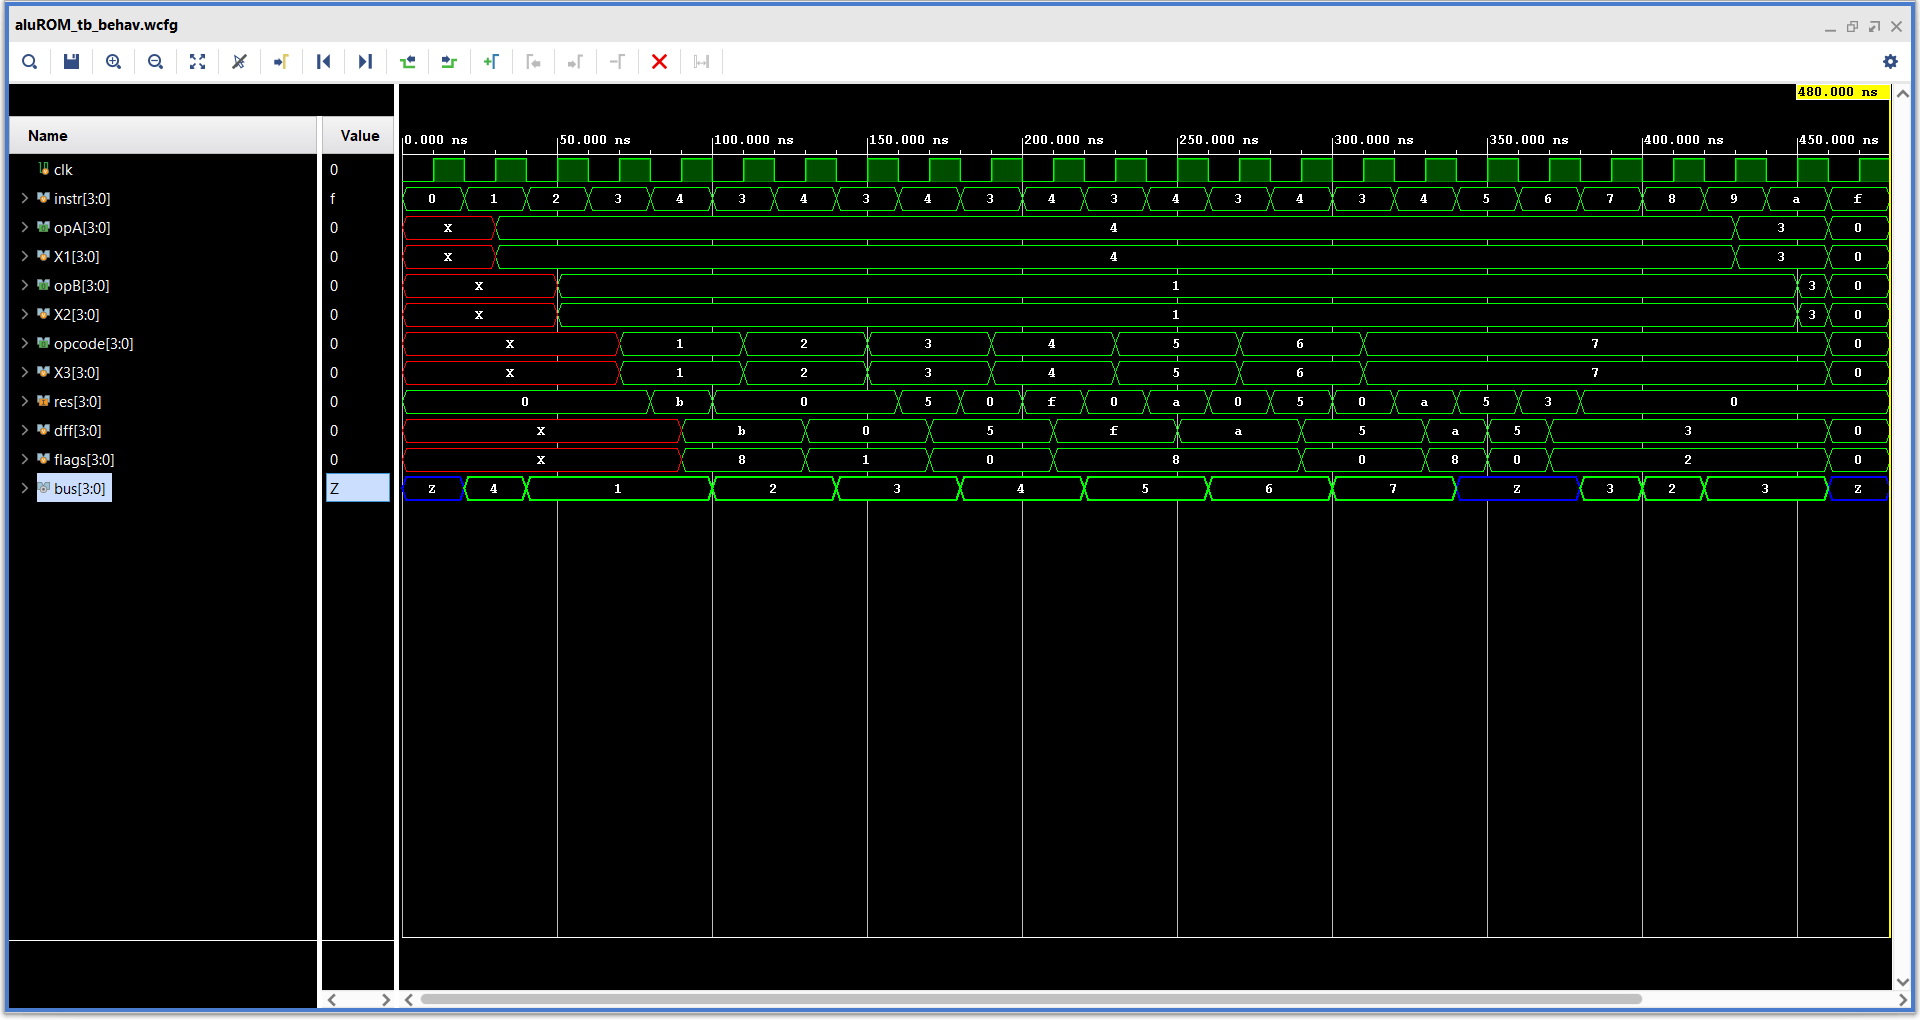
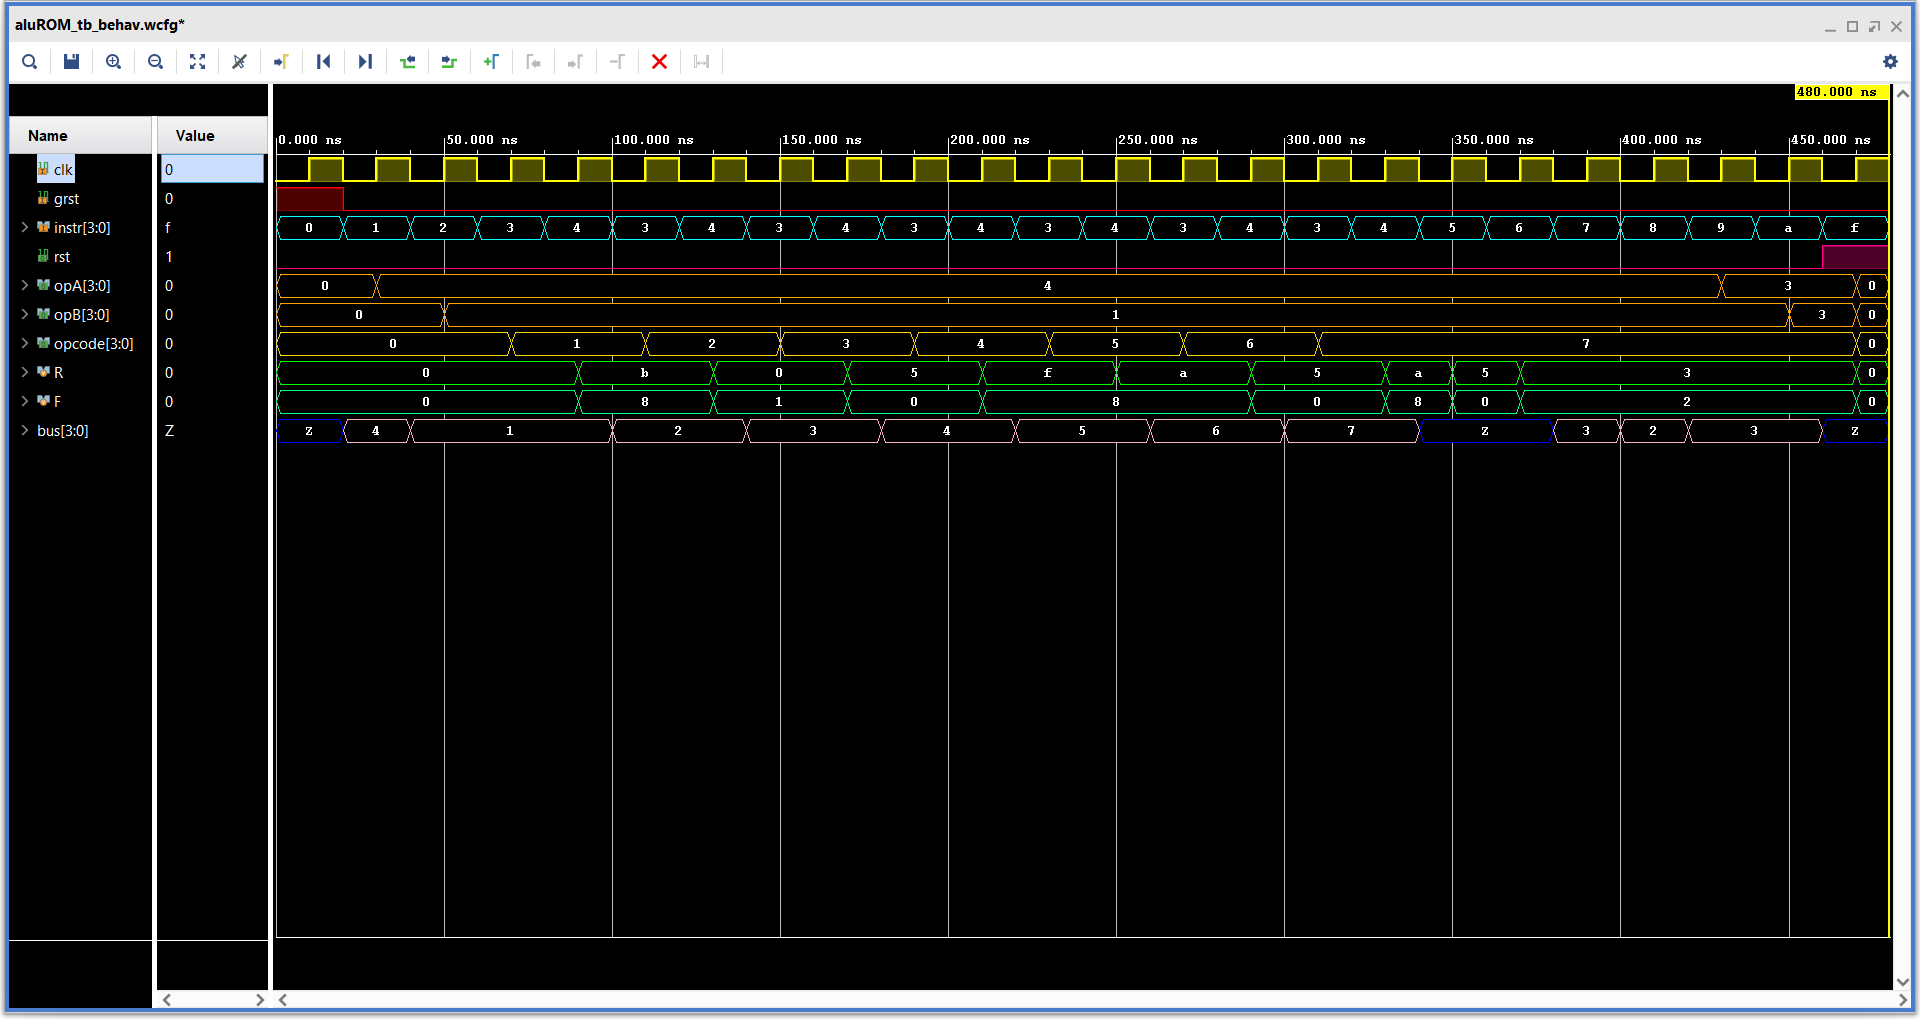
Updated!

diff --git a/ALU unit/README.md b/ALU unit/README.md
@@ -1,1 +1,97 @@
-In progress...
+# **Arithmatic & Logic unit**
+
+The ALU unit in this design can perform all the logic logic operations and two arithmatic operations.
+The operation count is reduced to make the instruction allocation easier!!!
+
+### **Overview :**
+- The ALU with two registers forms the data operation and storage unit,
+    1. Input register - X
+        + Contains three memory elements - A operand, B operand and Operation selector.
+        + The op selector is used to select is used for logic operation selector.
+    2. Output register - Result
+        + Has two memory elements - R and F registers.
+        + R -> ALU result
+        + F -> Flags
+- Contains two resets,
+    1. GRST -> Global reset (Hardware reset)
+    2. LRST -> Local reset (Software reset)
+- Both registers are connected to a single shared 4bit bus.
+- The registers can perform below operations,
+    1. X  -> Read from bus and directly forward the value to ALU
+    2. R -> Read the ALU output and write to bus
+    3. F -> Store flags set by the ALU and write to the bus
+- The logic operations are controlled by the opcode but the arithmatic operations have there own dedicated instructions.
+- The read write operations are controlled by a register control block which enables te required register operations based control signals given by the decoder.
+- The instruction are given to the decoder in hex form where it is decoded to produce the requiered control signals.
+
+---
+
+### **Elaborated design :**
+![Failed to load the image!](./schematic/schematic.png "Loading...")
+
+---
+ 
+### **Instruction set :**
+
+| Hex code | Operation          |
+|:--------:|:------------------:|
+| 0        | NOP                |
+| 1        | MOV BUS, X1        |
+| 2        | MOV BUS, X2        |
+| 3        | MOV BUS, X3        |
+| 4        | LOGIC              |
+| 5        | ADD                |
+| 6        | SUB                |
+| 7        | MOV R -> BUS       |
+| 8        | MOV F -> BUS       |
+| 9        | MOV R -> X1        |
+| A        | MOV R -> X2        |
+| B        | NOP                |
+| C        | NOP                |
+| D        | NOP                |
+| E        | NOP                |
+| F        | CLEAR              |
+
+---
+
+### **Simulation :**
+
+#### **Test sequence :**
+```sv ,
+{
+    reg clk, grst,    // Clock and Global reset
+    reg [3:0] imm,    // Immediate value
+    reg [3:0] instr,  // Instruction
+    wire [3:0] bus // Data bus
+    
+    reg bus_write ;  // Enable bus simulation
+    reg [3:0] bus_temp ;    // Temporary bus value
+}
+
+begin
+
+    clk = 0 ; grst = 1 ; instr = 4'h0 ; bus_write = 0 ; bus_temp = 4'h0 ;  // Initial condition
+
+    @( negedge clk ) ; grst = 0 ; bus_write = 1 ; bus_temp = 4'h4 ; instr = 4'h1 ; // MOV BUS -> X1
+    @( negedge clk ) ; bus_temp = 4'h1 ; instr = 4'h2 ; // MOV BUS -> X2
+    for( i = 1 ; i < 8 ; i = i + 1 )
+    begin
+        @( negedge clk ) ; bus_temp = i ; instr = 4'h3 ;    // MOV BUS -> X3
+        @( negedge clk ) ; instr = 4'h4 ;   // LOGIC
+    end
+    @( negedge clk ) ; bus_write = 0 ; instr = 4'h5 ;   // ADD
+    @( negedge clk ) ; instr = 4'h6 ;   // SUB
+    @( negedge clk ) ; instr = 4'h7 ;   // MOV R -> BUS
+    @( negedge clk ) ; instr = 4'h8 ;   // MOV FLAG -> BUS
+    @( negedge clk ) ; instr = 4'h9 ;   // MOV R -> X1    
+    @( negedge clk ) ; instr = 4'hA ;   // MOV R -> X2    
+    @( negedge clk ) ; instr = 4'hF ;   // CLEAR
+    @( negedge clk ) ; $finish ;
+
+end
+
+```
+
+#### **Waveform :**
+
+![Failed to load the image!](./waveform/waveform.png "Loading...")

diff --git a/Register file/README.md b/Register file/README.md
@@ -1,6 +1,8 @@
 # **Register file**
 
-A basic register file with minimal number of registers and operations.
+A basic register file with three registers and few operations.
+
+The design could have been built with more registers but this is a simple start, so i kept it smaller and fewer!!!
 
 ### **Overview :**
 - The register file consists of 3 registers,

diff --git a/README.md b/README.md
@@ -1,5 +1,5 @@
 
-**imple Hirarchial MicroCode Processer - 4bit ( SHMCP-4 )**
+**Simple Hirarchial MicroCode Processer - 4bit ( SHMCP-4 )**
 ---
 
 **This is my custom 4-bit processer based on the Breadboard version that i am working on**
